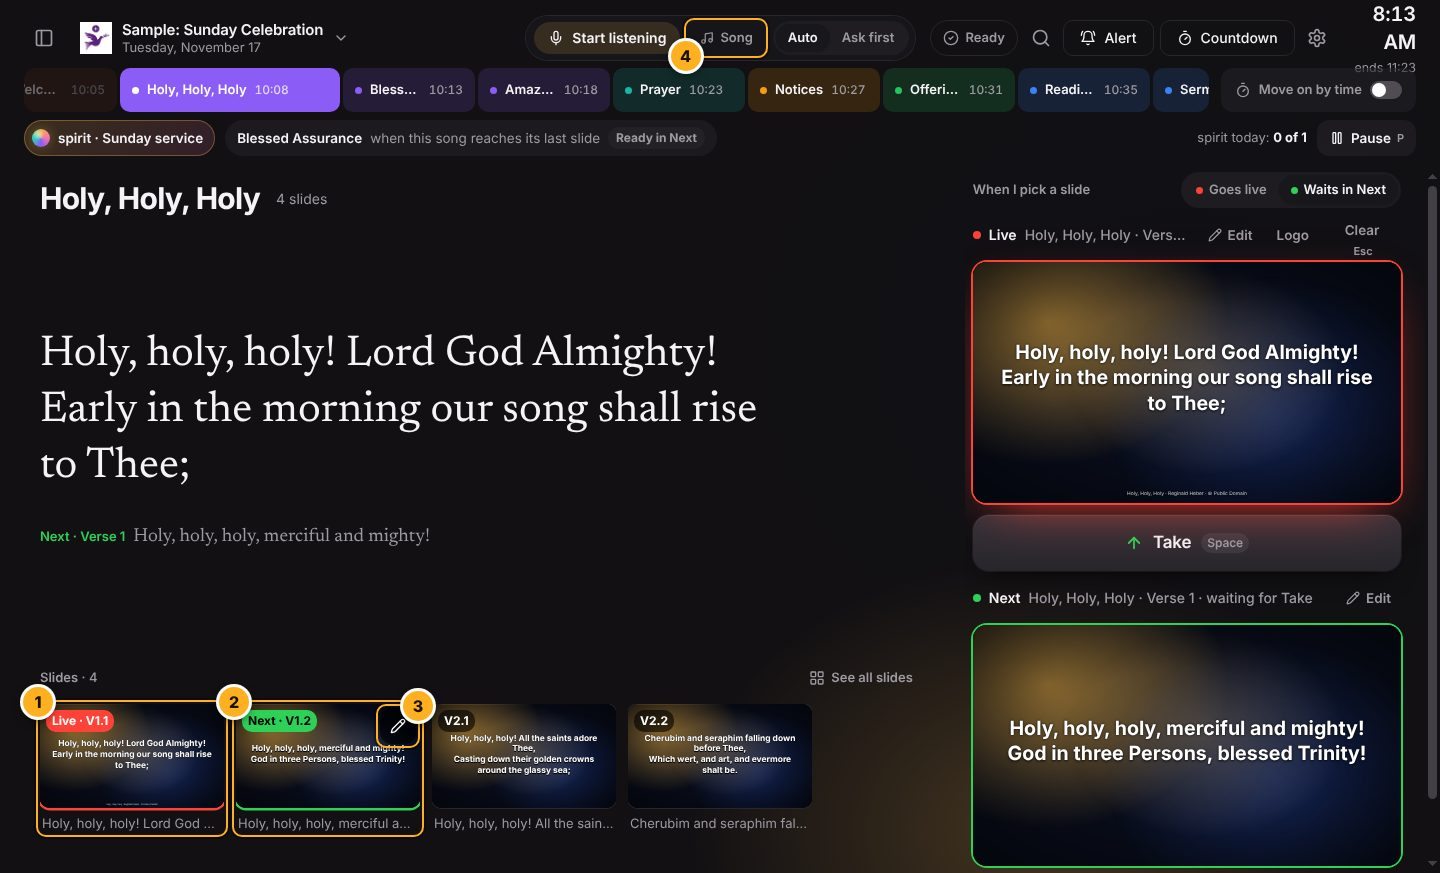
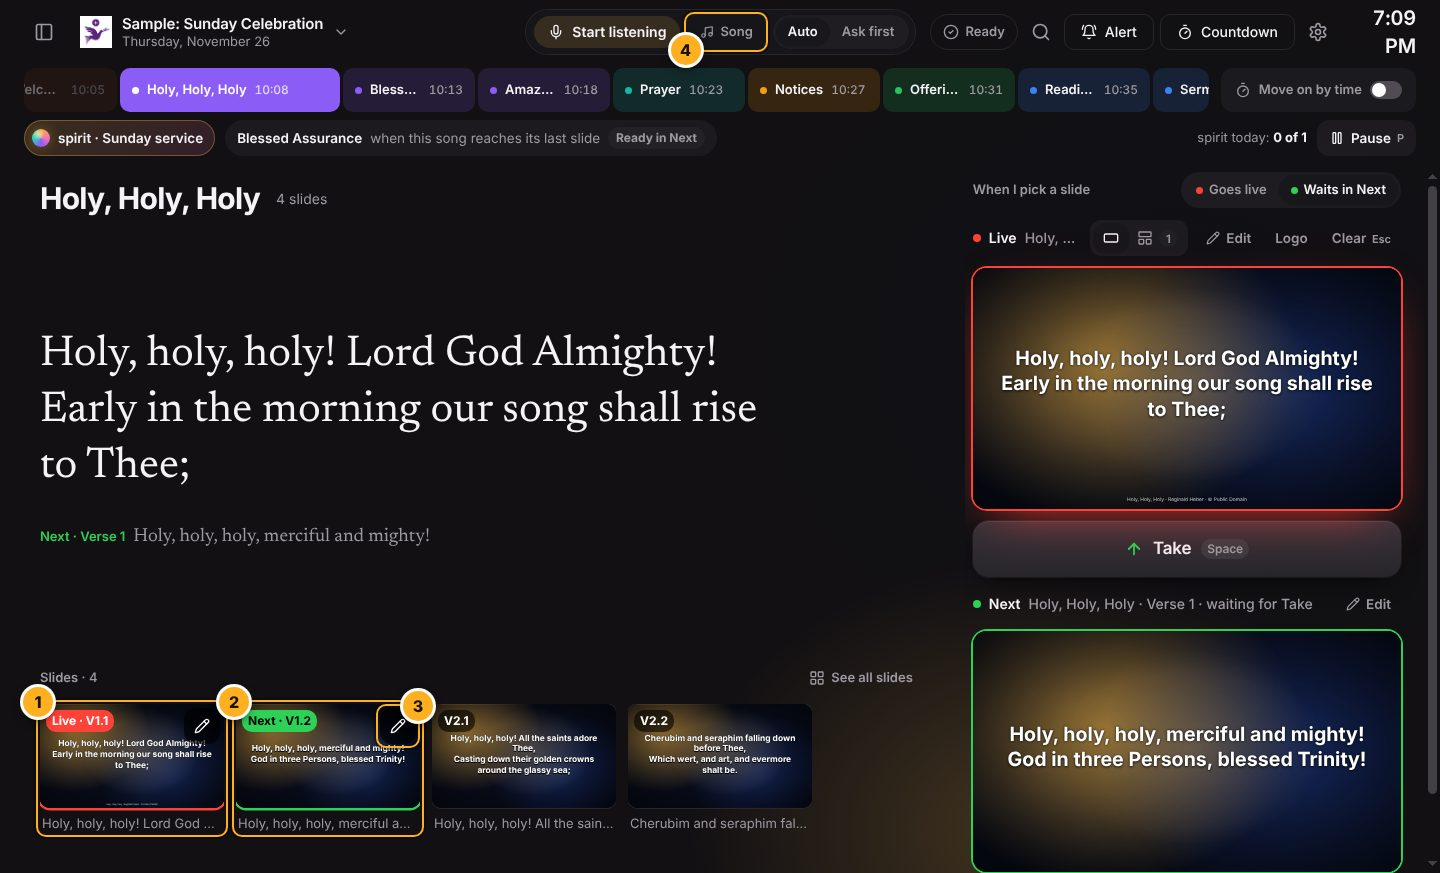
1.19.17: the Songs and slides lesson
Training → Before Sunday → Songs and slides: where songs come from
(Media, Add files for a SongSelect song, Lyrics), then on the live
screen the Library's Songs, a song's slides along the bottom, Take for
the first slide and again for the next, the pencil for Quick edit, its
words and look, Cancel, See all slides, and Looks. Show me changes no
song and the room never sees it. Every line recorded in the guide's
voice and heard word for word.

The pencil is always shown on the Live slide. Show me presses before it
clicks (Radix tabs switch on the press), and lesson checks find the
visible control (the wide-screen Library column is hidden on smaller
windows). The user guide's Stream Deck note, lost by a rebuild, is now
in tools/guide/content.py.

Claude-Session: https://claude.ai/code/session_01Ph7U8p69jofSbG9NX4wK9Q

diff --git a/docs/user-guide/index.html b/docs/user-guide/index.html
@@ -368,7 +368,7 @@ a:focus-visible, img:focus-visible, button:focus-visible { outline: 3px solid va
 <div><h3>What is paired</h3>
 <ol class="steps one"><li><span class="num" aria-hidden="true">1</span><span>Each paired device, what it may do, and when it last used Voice Verses. Places it sends events to are listed under it, with <b>Stop sending</b>.</span></li><li><span class="num" aria-hidden="true">2</span><span><b>Remove</b> ends that device’s access at once. To pair it again, show a new code.</span></li></ol>
 </div></div>
-<div class="know"><b class="t">Good to know</b><ul><li>A remote <b>Take</b> does exactly what the Take button does. While you practise in Training, other apps can’t change the screens.</li><li>A service sent in appears in <b>Services</b> on its day, marked <b>From</b> and the app’s name, and you see a message when it arrives. Sending it again updates it. Its scriptures expected are in the sermon, so detection finds them more easily, and loading them puts the first verse in Next.</li><li>A service saved as a file by another app (a <b>service package</b>, .json) imports with <b>Services → Import</b>.</li><li>For the people who make the apps: the page links to <b>the guide for developers</b> (the API, its events, webhooks and the service package).</li></ul></div>
+<div class="know"><b class="t">Good to know</b><ul><li><b>A Stream Deck:</b> add the Voice Verses module to Bitfocus Companion (the file <b>voice-verses-companion.tgz</b> comes with each release) and type the pairing code in its connection. Its ready-made buttons Take, Clear, show the logo, go back and forward and show a verse; Take lights green while something waits in Next, Clear red while something is on the screens. Step by step: [Stream Deck buttons](../integrations/stream-deck.md).</li><li>A remote <b>Take</b> does exactly what the Take button does. While you practise in Training, other apps can’t change the screens.</li><li>A service sent in appears in <b>Services</b> on its day, marked <b>From</b> and the app’s name, and you see a message when it arrives. Sending it again updates it. Its scriptures expected are in the sermon, so detection finds them more easily, and loading them puts the first verse in Next.</li><li>A service saved as a file by another app (a <b>service package</b>, .json) imports with <b>Services → Import</b>.</li><li>For the people who make the apps: the page links to <b>the guide for developers</b> (the API, its events, webhooks and the service package).</li></ul></div>
 </section>
 <section id="settings"><h2>13. Settings, page by page</h2>
 <p class="intro">Open Settings with the gear. Everything saves as you change it; there is no Save button to forget. Screens and ProPresenter have their own sections above.</p>
@@ -503,7 +503,7 @@ a:focus-visible, img:focus-visible, button:focus-visible { outline: 3px solid va
 <div class="fig">
 <figure><img src="img/training-1-page.jpg" alt="Training" loading="lazy" width="1440" height="900" tabindex="0"><figcaption>Click the picture to see it full size.</figcaption></figure>
 <div><h3>Training</h3>
-<ol class="steps"><li><span class="num" aria-hidden="true">1</span><span><b>Training</b> in the page bar (or the Training button on the live screen).</span></li><li><span class="num" aria-hidden="true">2</span><span><b>Show me</b>: Voice Verses does each step, with a pointer and a voice.</span></li><li><span class="num" aria-hidden="true">3</span><span><b>Let me try</b>: you do each step; it waits and checks.</span></li><li><span class="num" aria-hidden="true">4</span><span><b>Watch</b>: the demo, explained aloud.</span></li><li><span class="num" aria-hidden="true">5</span><span>Lessons by who they are for: <b>Everyone</b> (your first Sunday, the demo, when something goes wrong), <b>Setting up</b> (set up your booth, screens and outputs) and <b>Before Sunday</b> (plan a service from a template, teach spirit a cue). Let me try in <i>Plan a service</i> plans a real service; delete it from the day if you don’t want it.</span></li></ol>
+<ol class="steps"><li><span class="num" aria-hidden="true">1</span><span><b>Training</b> in the page bar (or the Training button on the live screen).</span></li><li><span class="num" aria-hidden="true">2</span><span><b>Show me</b>: Voice Verses does each step, with a pointer and a voice.</span></li><li><span class="num" aria-hidden="true">3</span><span><b>Let me try</b>: you do each step; it waits and checks.</span></li><li><span class="num" aria-hidden="true">4</span><span><b>Watch</b>: the demo, explained aloud.</span></li><li><span class="num" aria-hidden="true">5</span><span>Lessons by who they are for: <b>Everyone</b> (your first Sunday, the demo, when something goes wrong), <b>Setting up</b> (set up your booth, screens and outputs) and <b>Before Sunday</b> (plan a service from a template, songs and slides, teach spirit a cue). Let me try in <i>Plan a service</i> plans a real service; delete it from the day if you don’t want it. In <i>Songs and slides</i>, Quick edit is opened and then cancelled, so no song changes unless you press Save yourself.</span></li></ol>
 </div></div>
 <div class="fig">
 <figure><img src="img/training-1b-hear-the-guide.jpg" alt="Hear the guide?" loading="lazy" width="1440" height="900" tabindex="0"><figcaption>Click the picture to see it full size.</figcaption></figure>

diff --git a/src/lib/lessons.ts b/src/lib/lessons.ts
@@ -6,7 +6,7 @@
  * Every lesson has its own automatic test (tools/e2e/training.cjs), so a change
  * to the screens can't break one unnoticed.
  */
-import type { GuideStep, Lesson } from '@/lib/guide';
+import { find, type GuideStep, type Lesson } from '@/lib/guide';
 import { loadSpirit, removeCue, updateSpirit } from '@/lib/spirit';
 
 /** Said when a step is done and has nothing of its own to say */
@@ -134,7 +134,7 @@ const teachCue: GuideStep[] = [
 
 // ---- Songs and slides (1.19.17) ------------------------------------------------------------
 
-const find = (selector: string) => document.querySelector(selector);
+// `find` is the visible one: the wide-screen Library column is in the page, hidden, on a smaller window
 /** The slide on the screens, in the strip (its key), so the next Take can be seen to move on */
 const liveSlide = () => find('[aria-label="Slides"] [role="listitem"]:has([data-state="live"])')?.getAttribute('data-key') ?? '';
 let firstLive = '';

diff --git a/src/components/guide/GuideHost.tsx b/src/components/guide/GuideHost.tsx
@@ -216,6 +216,8 @@ export function GuideHost() {
           if (s.click && now) {
             setTap((t) => t + 1);
             await wait(250);
+            // A press before the click: tabs switch on the press, not the click
+            now.dispatchEvent(new MouseEvent('mousedown', { bubbles: true, cancelable: true, button: 0 }));
             now.click();
           }
           if (s.type && now) await typeInto(now, s.type, alive);

diff --git a/tools/guide/content.py b/tools/guide/content.py
@@ -415,7 +415,7 @@ SECTIONS = [
                     "**Show me**: Voice Verses does each step, with a pointer and a voice.",
                     "**Let me try**: you do each step; it waits and checks.",
                     "**Watch**: the demo, explained aloud.",
-                    "Lessons by who they are for: **Everyone** (your first Sunday, the demo, when something goes wrong), **Setting up** (set up your booth, screens and outputs) and **Before Sunday** (plan a service from a template, teach spirit a cue). Let me try in *Plan a service* plans a real service; delete it from the day if you don’t want it.",
+                    "Lessons by who they are for: **Everyone** (your first Sunday, the demo, when something goes wrong), **Setting up** (set up your booth, screens and outputs) and **Before Sunday** (plan a service from a template, songs and slides, teach spirit a cue). Let me try in *Plan a service* plans a real service; delete it from the day if you don’t want it. In *Songs and slides*, Quick edit is opened and then cancelled, so no song changes unless you press Save yourself.",
                 ],
             },
             {
@@ -727,6 +727,7 @@ DEVICES = {
         },
     ],
     "points": [
+        "**A Stream Deck:** add the Voice Verses module to Bitfocus Companion (the file **voice-verses-companion.tgz** comes with each release) and type the pairing code in its connection. Its ready-made buttons Take, Clear, show the logo, go back and forward and show a verse; Take lights green while something waits in Next, Clear red while something is on the screens. Step by step: [Stream Deck buttons](../integrations/stream-deck.md).",
         "A remote **Take** does exactly what the Take button does. While you practise in Training, other apps can’t change the screens.",
         "A service sent in appears in **Services** on its day, marked **From** and the app’s name, and you see a message when it arrives. Sending it again updates it. Its scriptures expected are in the sermon, so detection finds them more easily, and loading them puts the first verse in Next.",
         "A service saved as a file by another app (a **service package**, .json) imports with **Services → Import**.",

diff --git a/docs/LESSONS.md b/docs/LESSONS.md
@@ -195,3 +195,5 @@ Check this list before debugging. Add every new mistake that cost time.
 - **"Needs both a {Verse} and a {Reference} token" with both tokens there (ProPresenter 21.4):** the check trusted one version's answer (`tokens[].name` in `/v1/messages`). Read the message itself too, accept other shapes, and when the API doesn't say, let the operator send a test verse instead of blocking them (`messageReadiness`, `tools/checks/propresenter-messages.mjs`).
 
 - **The Companion module wouldn't build as "UNLICENSED":** `companion-module-build` refuses any module whose source isn't MIT (and whose manifest isn't MIT or GPL). The module folder (`tools/companion-module/`) carries its own MIT `LICENSE`; the rest of the repository is unaffected.
+- **A line typed into the user guide vanished:** `docs/user-guide/README.md` is generated by `tools/guide/build.py` from `tools/guide/content.py`; the next rebuild drops anything written into the README itself (the Stream Deck note of 1.19.16 was lost this way and put back in 1.19.17). Write guide text in `content.py`.
+- **Show me clicked Songs and nothing happened:** Radix tabs switch on the mouse press, not on `click()`. The guide now presses before it clicks (`GuideHost`). The guide's `find` also skips hidden copies (the wide-screen Library column is in the page, hidden, on smaller windows), so lesson checks use `find`, not `querySelector`.
